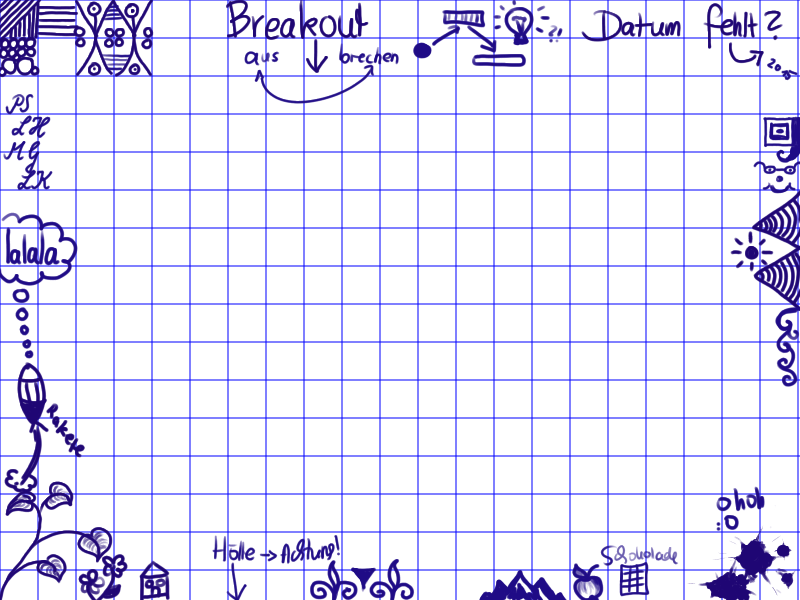
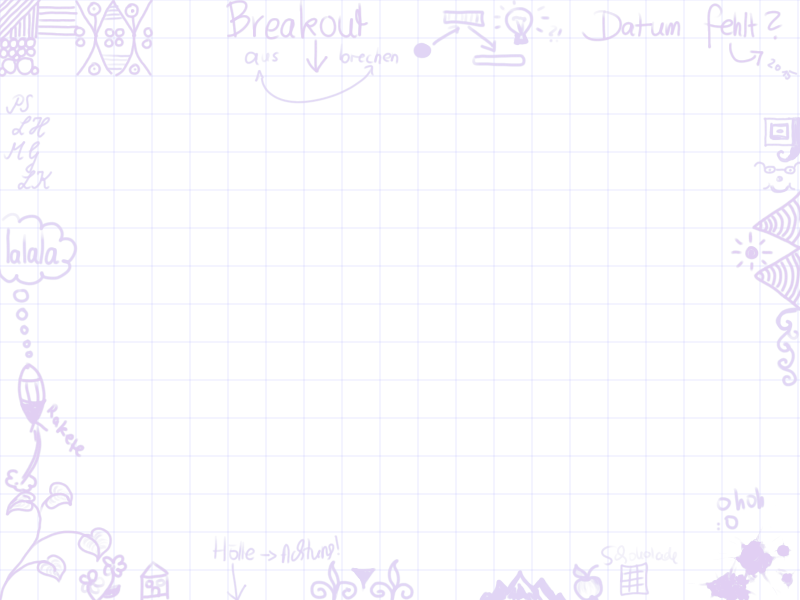
Background Image

diff --git a/src/states/Preloader.js b/src/states/Preloader.js
@@ -18,6 +18,7 @@ doodleBreakout.Preloader.prototype = {
         this.game.load.spritesheet('block01', 'assets/images/block01.png', 50, 16);
         this.game.load.spritesheet('block02', 'assets/images/block02.png', 50, 16);
         this.game.load.spritesheet('block03', 'assets/images/block03.png', 50, 16);
+        this.game.load.image('hintergrund', 'assets/images/hintergrund.png');
 
         //Load font files
         this.game.load.bitmapFont('larafont', 'assets/fonts/larafont.png', 'assets/fonts/larafont.xml');
@@ -52,6 +53,9 @@ doodleBreakout.Preloader.prototype = {
 
     create: function(){
         doodleBreakout.SoundManager.init(this.game);
+
+        var hintergrund = new Phaser.Image(this.game, 0, 0, 'hintergrund');
+        this.stage.addChildAt(hintergrund, 0);
 
         this.state.start('MainMenu');
     }

diff --git a/src/states/Boot.js b/src/states/Boot.js
@@ -28,7 +28,6 @@ doodleBreakout.Boot.prototype = {
     },
 
     create: function () {
-        this.game.stage.backgroundColor = 0xEEEEEE;
         this.state.start('Preloader');
     }
 
